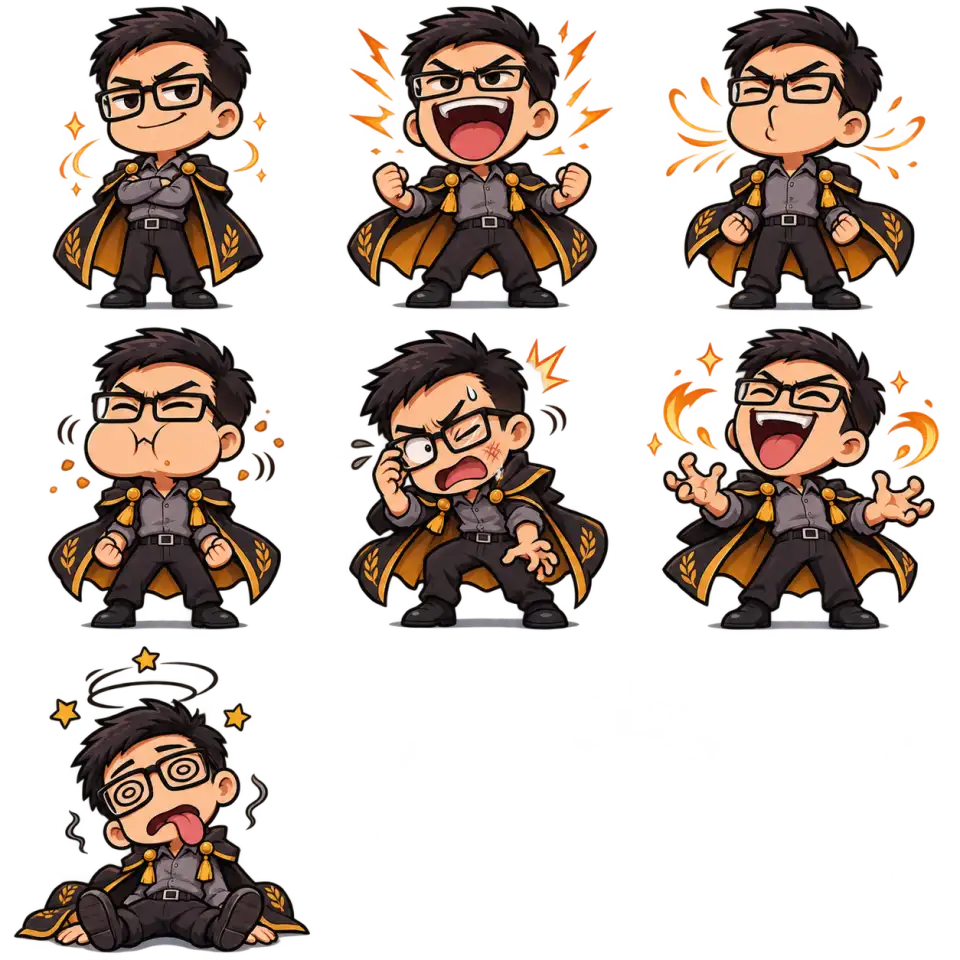
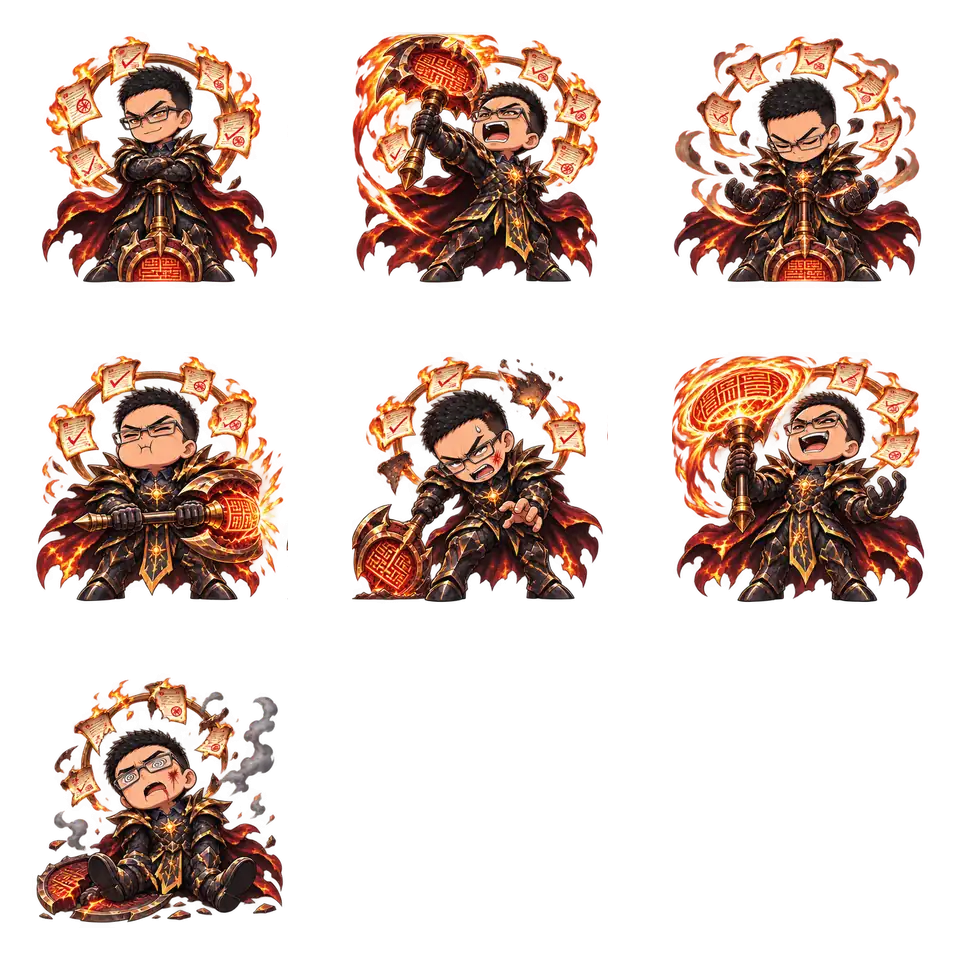
feat(arena): add faculty raid boss roster
Replace the three existing faculty sprites and add the eight missing lecturers as distinct dark-fantasy bosses with English titles and complete seven-pose sheets.

diff --git a/src/components/teaching/arena/arenaBosses.ts b/src/components/teaching/arena/arenaBosses.ts
@@ -44,12 +44,52 @@ export const ARENA_BOSSES: readonly ArenaBoss[] = [
 	{ id: 'nuoc-den-chan', name: 'Vua Nước Đến Chân', art: { kind: 'vector', design: 'wave' } },
 	{ id: 'chep-bai', name: 'Sách Thần Chép Bài', art: { kind: 'vector', design: 'book' } },
 	{ id: 'cu-dem', name: 'Cú Đêm Cày Phim', art: { kind: 'vector', design: 'owl' } },
-	{ id: 'men-trang-sach', name: 'Ma Sư Mến', art: { kind: 'sheet', file: 'men-trang-sach' } },
-	{ id: 'khanh-hoa-bai', name: 'Giám Khảo Khánh', art: { kind: 'sheet', file: 'khanh-hoa-bai' } },
+	{ id: 'le-manh-duc', name: 'Duc — Solar Tyrant', art: { kind: 'sheet', file: 'le-manh-duc' } },
+	{
+		id: 'phan-hoang-quan',
+		name: 'Quan — War Strategist',
+		art: { kind: 'sheet', file: 'phan-hoang-quan' },
+	},
+	{
+		id: 'hoang-gia-thu',
+		name: 'Thu — Stone Verdict',
+		art: { kind: 'sheet', file: 'hoang-gia-thu' },
+	},
+	{
+		id: 'nguyen-thu-trang',
+		name: 'Trang — Void Tempest',
+		art: { kind: 'sheet', file: 'nguyen-thu-trang' },
+	},
+	{
+		id: 'ngo-thi-thuy-linh',
+		name: 'Thuy Linh — Azure Warden',
+		art: { kind: 'sheet', file: 'ngo-thi-thuy-linh' },
+	},
+	{
+		id: 'men-trang-sach',
+		name: 'Men — Crimson Hexscribe',
+		art: { kind: 'sheet', file: 'men-trang-sach' },
+	},
+	{ id: 'le-hai-anh', name: 'Hai Anh — Frost Oracle', art: { kind: 'sheet', file: 'le-hai-anh' } },
+	{
+		id: 'khanh-hoa-bai',
+		name: 'Khanh — Infernal Examiner',
+		art: { kind: 'sheet', file: 'khanh-hoa-bai' },
+	},
+	{
+		id: 'nguyen-phuc-linh',
+		name: 'Phuc Linh — Storm Herald',
+		art: { kind: 'sheet', file: 'nguyen-phuc-linh' },
+	},
 	{
 		id: 'phuong-phep-giay',
-		name: 'Pháp Sư Hà Phương',
+		name: 'Ha Phuong — Arcane Dominion',
 		art: { kind: 'sheet', file: 'phuong-phep-giay' },
+	},
+	{
+		id: 'tran-thao-phuong',
+		name: 'Thao Phuong — Soul Weaver',
+		art: { kind: 'sheet', file: 'tran-thao-phuong' },
 	},
 ];
 

diff --git a/src/components/teaching/arena/arenaCharacters.unit.test.ts b/src/components/teaching/arena/arenaCharacters.unit.test.ts
@@ -24,6 +24,24 @@ describe('Arena character assignment', () => {
 });
 
 describe('Arena bosses', () => {
+	it('includes the complete faculty raid-boss roster', () => {
+		expect(
+			ARENA_BOSSES.filter((boss) => boss.art.kind === 'sheet').map((boss) => boss.name),
+		).toEqual([
+			'Duc — Solar Tyrant',
+			'Quan — War Strategist',
+			'Thu — Stone Verdict',
+			'Trang — Void Tempest',
+			'Thuy Linh — Azure Warden',
+			'Men — Crimson Hexscribe',
+			'Hai Anh — Frost Oracle',
+			'Khanh — Infernal Examiner',
+			'Phuc Linh — Storm Herald',
+			'Ha Phuong — Arcane Dominion',
+			'Thao Phuong — Soul Weaver',
+		]);
+	});
+
 	it('take turns by round and start over after the last one', () => {
 		expect(arenaBossFor(1).name).toBe('Chúa Tể Quên Bài');
 		expect(arenaBossFor(2).id).not.toBe(arenaBossFor(1).id);
